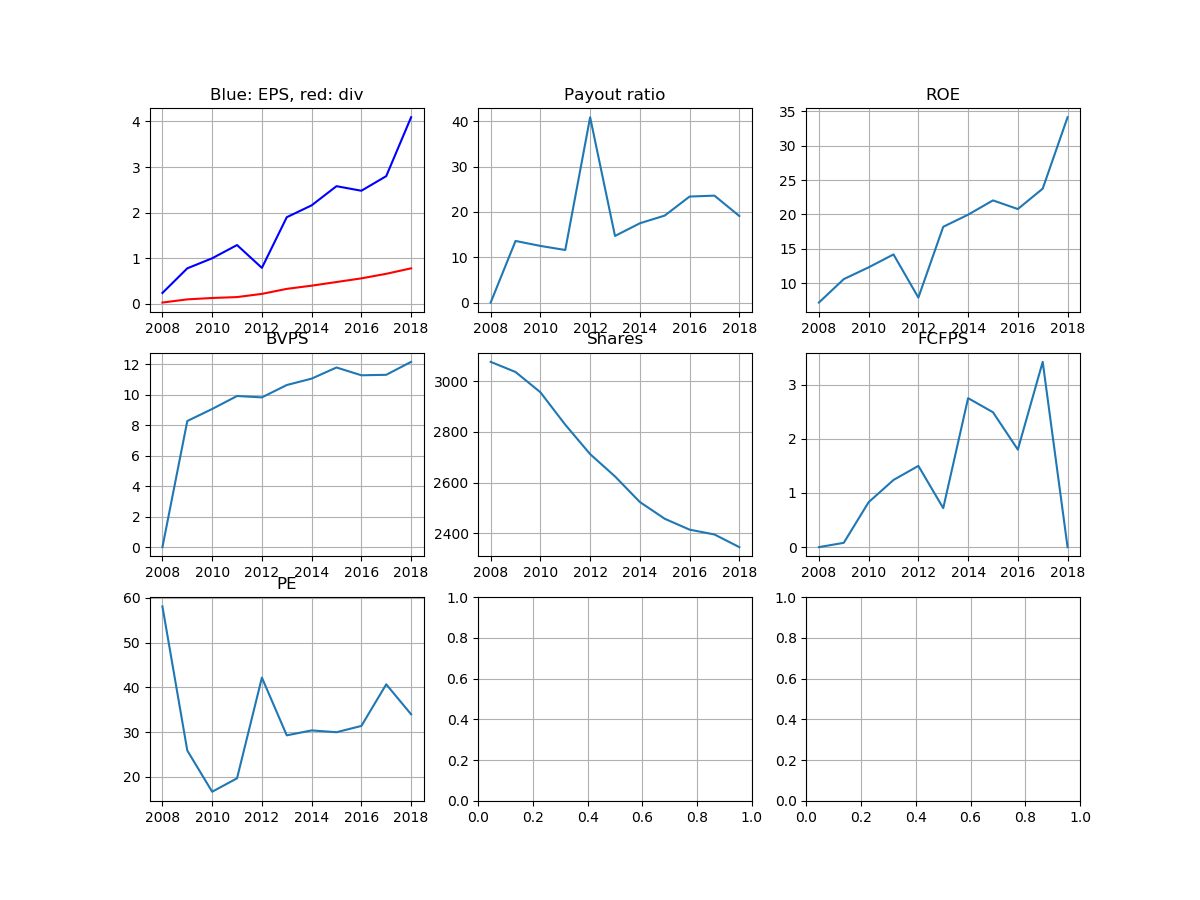
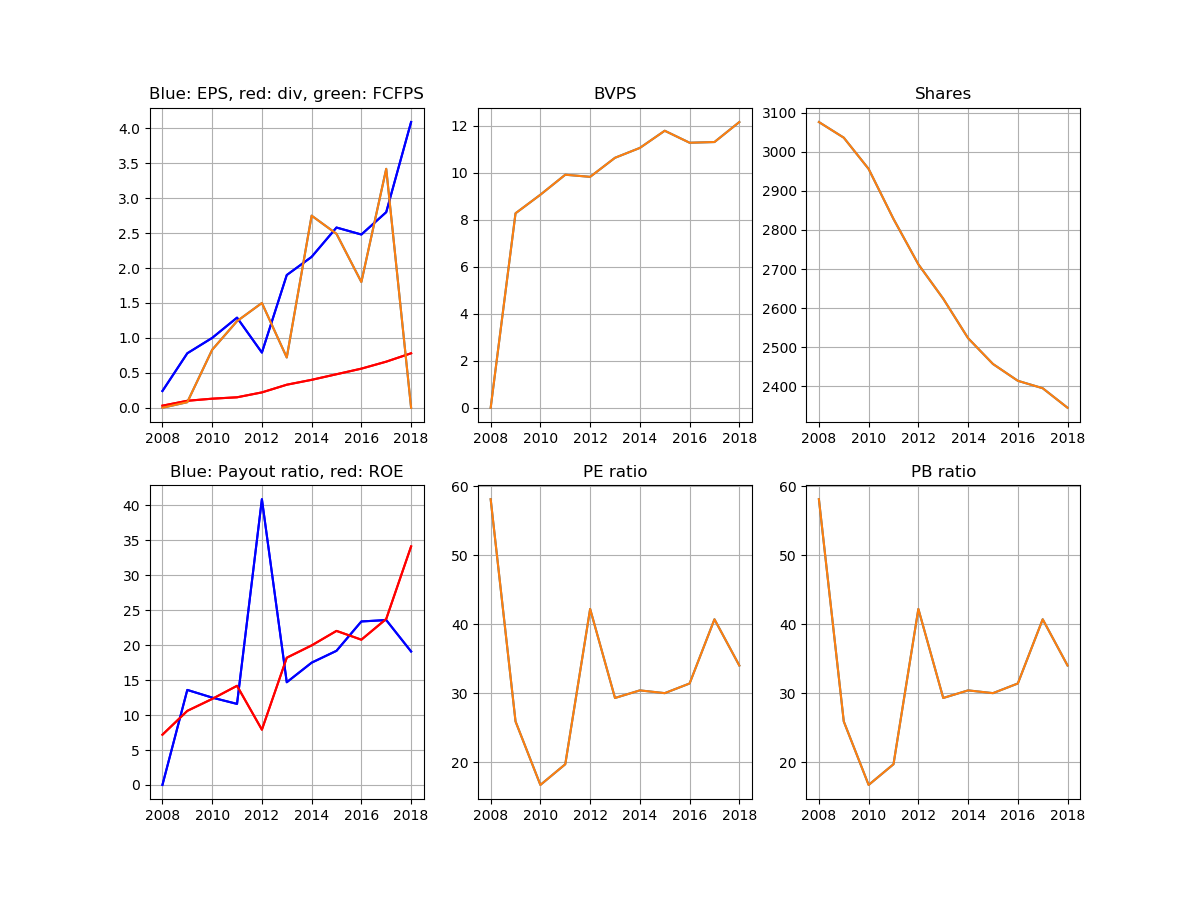
included calculations
Included calculations to project future book value, earnings, dividends

Changed region(s): [[0.0925, 0.0935, 0.925, 0.9354], [0.6167, 0.9042, 0.6475, 0.9354], [0.0925, 0.1247, 0.1233, 0.1559]]

diff --git a/fom_estimation.py b/fom_estimation.py
@@ -2,18 +2,138 @@
 """
 Created on Fri Jul  5 17:24:01 2019
 
-This is supposed to take raw data and make estimates
+This is supposed to take raw data and make estimates of figures of merit
 Return min, max, mean, std dev of the 
    EPS,
    ROE
    Payout ratio
+   PE
+   PB
    
-Estimate future data
-   requires the estimate of ROE, payout ratio, PE
+Estimating future data requires estimates of 
+   ROE, payout ratio, PE, PB
    returns a list of dividends across years
    discount rate
-   
    
 @author: Yong Keong
 """
 
+import numpy as np
+
+def analyze_metric(data, name=''):
+   '''
+   Generic function to extract min max avg std from a list
+   Arguments: 
+      data: a list of numbers
+      name: a name for dictionary entries
+   Returns:
+      a dictionary with names
+      {name_min: smallest number in list
+      name_max: largest number in list
+      name_avg: mean of list
+      name_std: st dev of list
+      }
+   '''
+   data_min = np.min(data)
+   data_max = np.max(data)
+   data_avg = np.average(data)
+   data_std = np.std(data)
+   
+   return {(name+'_min'): data_min,
+           (name+'_max'): data_max,
+           (name+'_avg'): data_avg,
+           (name+'_std'): data_std}
+
+def analyze_pe_ratio(data):
+   '''
+   Function to get the 4 stats of PE ratio
+   Arguments: data, a dictionary of datapoints
+   Returns: a dictionary of 
+      {pe_min: smallest number in pe list
+      pe_max: largest number in pe list
+      pe_avg: mean of pe list
+      pe_std: st dev of pe list
+   }
+   '''
+   pe_ratio_data = data['pe_ratio']
+   pe_stats = analyze_metric(pe_ratio_data, 'pe_ratio')
+   return pe_stats
+   
+def analyze_pb_ratio(data):
+   '''
+   Same as above, except for PB
+   '''
+   pb_ratio_data = data['pb_ratio']
+   pb_stats = analyze_metric(pb_ratio_data, 'pb_ratio')
+   return pb_stats
+
+def analyze_roe(data):
+   '''
+   Same as above, except for ROE
+   '''
+   roe_data = data['roe']
+   roe_stats = analyze_metric(roe_data, 'roe')
+   return roe_stats
+
+def analyze_payout_ratio(data):
+   '''
+   Same as above, except for payout_ratio
+   '''
+   payout_ratio_data = data['payout_ratio']
+   payout_ratio_stats = analyze_metric(payout_ratio_data, 'payout_ratio')
+   return payout_ratio_stats
+
+def analyze_eps(data):
+   '''
+   Same as above, except for earnings per share
+   '''
+   eps_data = data['eps']
+   eps_stats = analyze_metric(eps_data, 'eps')
+   return eps_stats
+
+def analyze_all_data(data, showstats=False):
+   '''
+   Same as above, and does everything in one step
+   Input: 
+      data: a dictionary of stock data
+      show_stats: decide whether to print on console the summarize stats
+   Returns: a dictionary with 
+      (min max avg std) of (pe pb roe eps payout_ratio)
+   '''
+   pe_stats = analyze_pe_ratio(data)
+   pb_stats = analyze_pb_ratio(data)
+   roe_stats = analyze_roe(data)
+   payout_ratio_stats = analyze_payout_ratio(data)
+   eps_stats = analyze_eps(data)
+   
+   stats_dictionary = {}
+   stats_dictionary.update(pe_stats)
+   stats_dictionary.update(pb_stats)
+   stats_dictionary.update(roe_stats)
+   stats_dictionary.update(payout_ratio_stats)
+   stats_dictionary.update(eps_stats)
+   
+   if (showstats):
+      print_stats(stats_dictionary)
+      
+   return stats_dictionary
+
+
+def print_stats(stats):
+   footers = ['_min','_max','_avg','_std',]
+   headers = ['pe_ratio','pb_ratio','roe','payout_ratio','eps']
+   
+   stat_names = []
+   for each_header in headers:
+      for each_footer in footers:
+         stat_names.append(each_header+each_footer)
+   
+   counter = 0
+   for each_name in stat_names:
+      number = round(stats[each_name],2)
+      print(each_name+':\t\t'+ str(number))
+      if (counter == 3):
+         print('===============')
+         counter=0
+      else:
+         counter = counter + 1

diff --git a/fom_projection.py b/fom_projection.py
@@ -1,0 +1,98 @@
+# -*- coding: utf-8 -*-
+"""
+Created on Mon Jul  8 11:29:53 2019
+Takes estimates of
+   ROE, payout ratio, PE, PB
+   to generate predicted returns in the future
+   discount rate
+   
+dictionary names
+   'year':year, 
+   'roe':roe,
+   'fcfps':fcfps,
+   'eps':eps,
+   'dividend':dividend,
+   'payout_ratio':payout_ratio,
+   'bookvalue':bookvalue,
+   'numberofshares':numberofshares,
+   'pe_ratio':pe_ratio
+   'pb_ratio':pb_ratio
+   
+@author: Yong Keong
+"""
+
+import copy
+
+def modify_dataset_one_year_simple(data, predicted_stats):
+   '''
+   Takes a fixed ROE, fixed payout ratio and predict future
+   Arguments: 
+      data: a dictionary of all the years of data
+      predicted_stats: dict of (pe pb payout eps roe)
+   Returns:
+      new_data, modified to predict company situation 1 year later
+   '''
+   expected_roe = predicted_stats['roe_avg']
+   expected_payout_ratio = predicted_stats['payout_ratio_avg']
+   expected_pe = predicted_stats['pe_ratio_avg']
+   expected_pb = predicted_stats['pb_ratio_avg']
+   
+   new_data = copy.deepcopy(data)
+   # append year
+   last_year = new_data['year'][-1] + 1 # access last element and add 1
+   new_data['year'].append(last_year)
+   
+   # pad ROE
+   new_data['roe'].append(expected_roe)
+   
+   # pad the fcfps with copy of last element
+   fcfps = new_data['fcfps'][-1]
+   new_data['fcfps'].append(fcfps)
+   
+   # calculate & append EPS from ROE & last book value
+   lastbookvalue = data['bookvalue'][-1]
+   new_eps = lastbookvalue * expected_roe / 100
+   new_data['eps'].append(new_eps)
+   
+   # calculate & append dividend from payout ratio & EPS
+   new_dividend = new_eps * expected_payout_ratio / 100
+   new_data['dividend'].append(new_dividend)
+   
+   # pad the payout ratio
+   new_data['payout_ratio'].append(expected_payout_ratio)
+   
+   # calculate retained earnings by subtracting div from eps
+   retained_earning = new_eps - new_dividend
+   
+   # calculate & append new book value by adding past BV and retained eps
+   newbookvalue = lastbookvalue + retained_earning
+   new_data['bookvalue'].append(newbookvalue)
+   
+   # pad numberofshares
+   numberofshares = data['numberofshares'][-1]
+   new_data['numberofshares'].append(numberofshares)
+   
+   # pad the pe ratio with expected value
+   new_data['pe_ratio'].append(expected_pe)
+   
+   # pad the pb ratio with expected value
+   new_data['pb_ratio'].append(expected_pb)
+   
+   return new_data
+
+def modify_dataset_multi_year(data, predicted_stats, years=10):
+   '''
+   Does the same as the modify_dataset_one_year(), iterated over years
+   Arguments: 
+      data: a dictionary of all the years of data
+      predicted_stats: dict of (min max avg std) x (pe pb payout eps roe)
+      years: integer to loop over
+   Returns:
+      data: modified to predict company situation N years later
+   '''
+   data_copy = None
+   data_old = data
+   for index in range(years):
+      data_copy = modify_dataset_one_year_simple(data_old, predicted_stats)
+      data_old = data_copy
+   return data_copy

diff --git a/data_plotter.py b/data_plotter.py
@@ -16,6 +16,7 @@ Important things to plot are:
    'bookvalue':bookvalue,
    'numberofshares':numberofshares,
    'pe_ratio':pe_ratio
+   'pb_ratio':pb_ratio
    
 @author: Yong Keong
 """
@@ -31,9 +32,10 @@ def plot_data(year_arr, data, title, folder):
     
 def plot_full_dataset(data, title='', folder=''):
    year = data['year']
-   
-   plt.figure(title)
    plt.figure(figsize=(12,9))
+   plt.suptitle(title)
+   plt.rcParams.update({'font.size': 7})
+   
    eps = data['eps']
    roe = data['roe']
    payout_ratio = data['payout_ratio']
@@ -42,51 +44,39 @@ def plot_full_dataset(data, title='', folder=''):
    numberofshares = data['numberofshares']
    fcfps = data['fcfps']
    pe_ratio = data['pe_ratio']
+   pb_ratio = data['pb_ratio']
    
-   plt.subplot(3,3,1)
-   plt.title('Blue: EPS, red: div')
+   plt.subplot(2,3,1)
+   plt.title('Blue: EPS, red: div, green: FCFPS')
    plt.plot(year, eps, color='blue')
    plt.plot(year, dividend, color='red')
+   plt.plot(year, fcfps, color='green')
    plt.grid(True)
    
-   plt.subplot(3,3,2)
-   plt.title('Payout ratio')
-   plt.plot(year, payout_ratio)
+   plt.subplot(2,3,4)
+   plt.title('Blue: Payout ratio, red: ROE')
+   plt.plot(year, payout_ratio, color='blue')
+   plt.plot(year, roe, color='red')
    plt.grid(True)
    
-   plt.subplot(3,3,3)
-   plt.title('ROE')
-   plt.plot(year, roe)
-   plt.grid(True)
-   
-   plt.subplot(3,3,4)
-   plt.title('BVPS')
-   plt.plot(year, bookvalue)
-   plt.grid(True)
-   
-   plt.subplot(3,3,5)
+   plt.subplot(2,3,3)
    plt.title('Shares')
    plt.plot(year, numberofshares)
    plt.grid(True)
    
-   plt.subplot(3,3,6)
-   plt.title('FCFPS')
-   plt.plot(year, fcfps)
+   plt.subplot(2,3,2)
+   plt.title('BVPS')
+   plt.plot(year, bookvalue)
    plt.grid(True)
    
-   plt.subplot(3,3,7)
-   plt.title('PE')
+   plt.subplot(2,3,5)
+   plt.title('PE ratio')
    plt.plot(year, pe_ratio)
    plt.grid(True)
    
-   plt.subplot(3,3,8)
-   plt.title('')
-   #plt.plot(year, )
-   plt.grid(True)
-   
-   plt.subplot(3,3,9)
-   plt.title('')
-   #plt.plot(year, )
+   plt.subplot(2,3,6)
+   plt.title('PB ratio')
+   plt.plot(year, pb_ratio)
    plt.grid(True)
    
    plt.savefig(folder+title+'.png')

diff --git a/stock_screener.py b/stock_screener.py
@@ -6,18 +6,22 @@ Created on Tue Jul 31 21:09:59 2018
 """
 import generate_test_data
 import data_plotter
+import fom_estimation as analyze
+import fom_projection as predict
 
 if True:
     data = generate_test_data.generate()
+    '''
+    '''
     
+data_plotter.plot_full_dataset(title='testcompany old',data=data)
+print('Finding stats')
+stock_stats = analyze.analyze_all_data(data,showstats=True)
 
 '''
-counter = 1
-while counter < length:
-    title = listofparams[counter]
-    data = listoflists[counter]
-    data_plotter.plot_data(year,data,title,'')
-    counter = counter + 1
+At this point, manually look at the stats, then project data
 '''
 
-data_plotter.plot_full_dataset(data)
+new_data = predict.modify_dataset_multi_year(data=data, predicted_stats=stock_stats, years=5)
+
+data_plotter.plot_full_dataset(title='testcompany predictions',data=new_data)

diff --git a/generate_test_data.py b/generate_test_data.py
@@ -27,6 +27,7 @@ def generate():
     bookvalue = [0,8.27,9.06,9.91,9.82,10.63,11.05,11.78,11.27,11.3,12.15]
     numberofshares = [3076,3036,2956,2828,2712,2624,2523,2457,2414,2395,2345]
     pe_ratio = [58.1,25.9,16.7,19.7,42.2,29.3,30.4,30,31.4,40.7,34]
+    pb_ratio = [58.1,25.9,16.7,19.7,42.2,29.3,30.4,30,31.4,40.7,34]
     
     datadictionary = {'year':year, 
                    'roe':roe,
@@ -36,6 +37,7 @@ def generate():
                    'payout_ratio':payout_ratio,
                    'bookvalue':bookvalue,
                    'numberofshares':numberofshares,
-                   'pe_ratio':pe_ratio}
+                   'pe_ratio':pe_ratio,
+                   'pb_ratio':pb_ratio}
     
     return datadictionary
